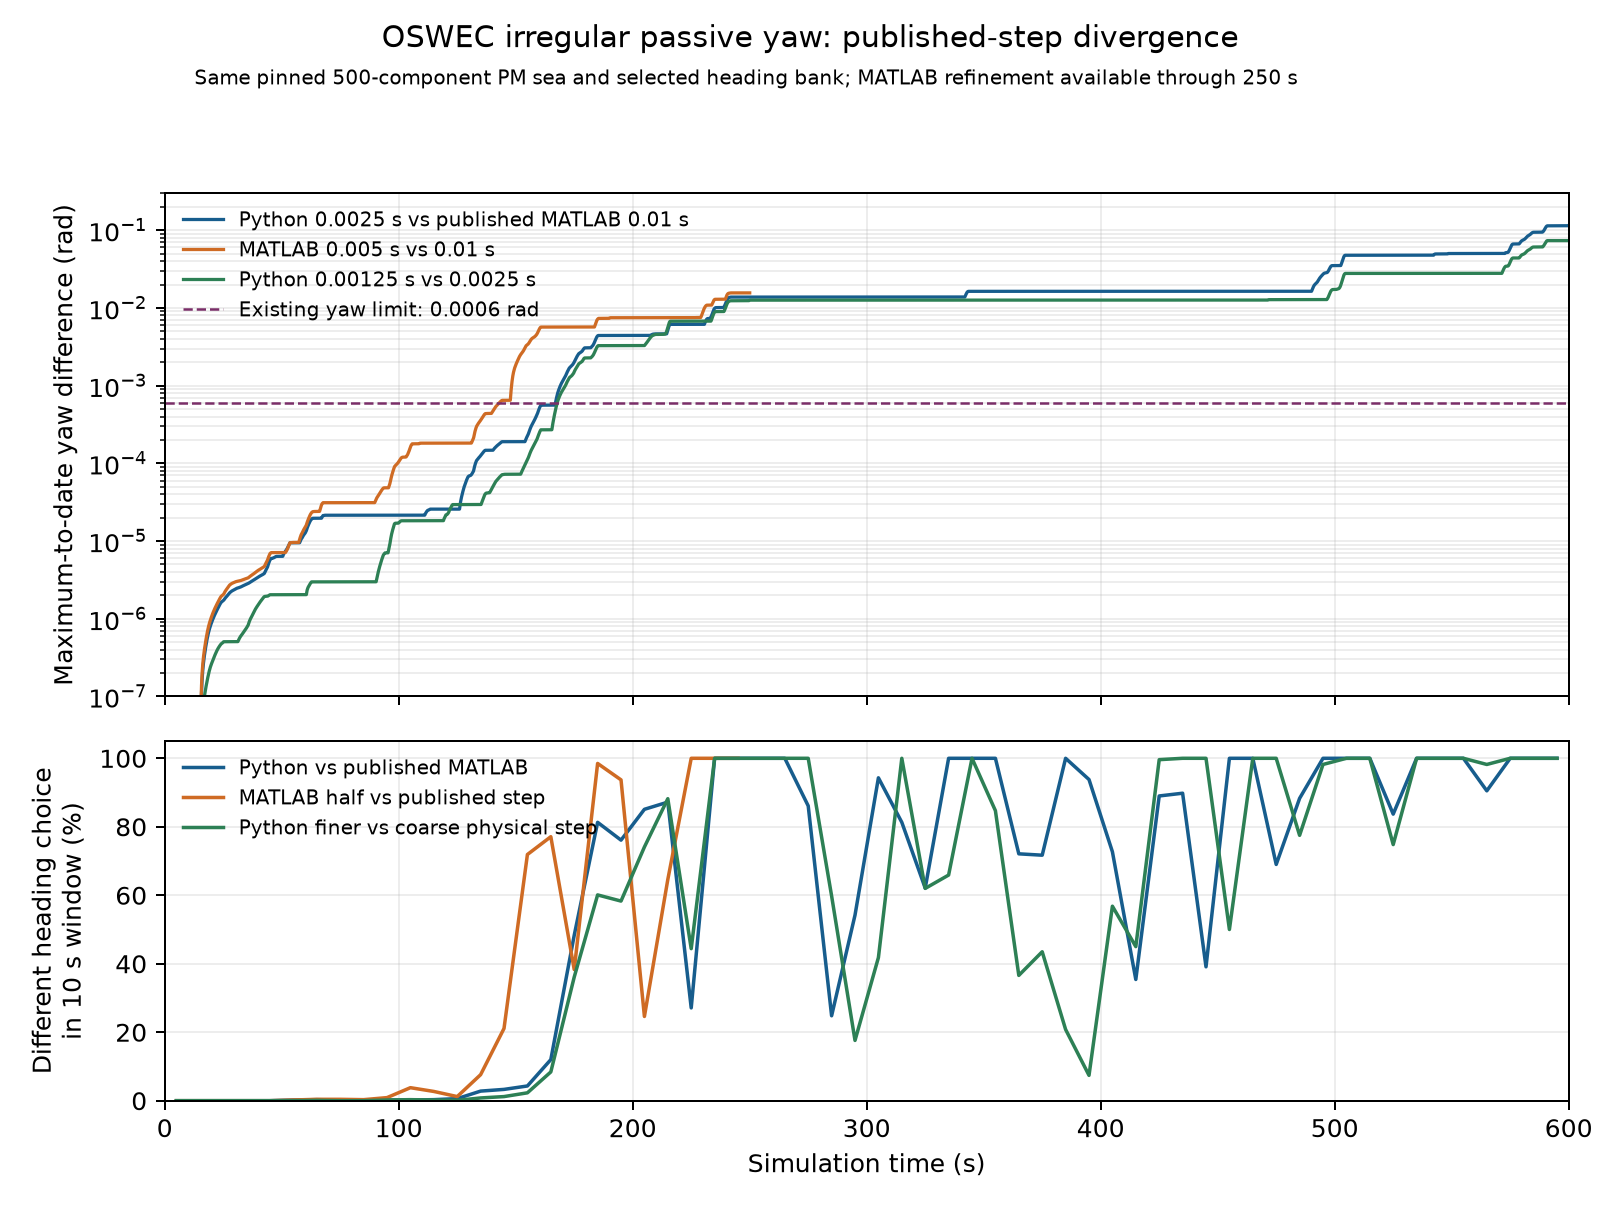
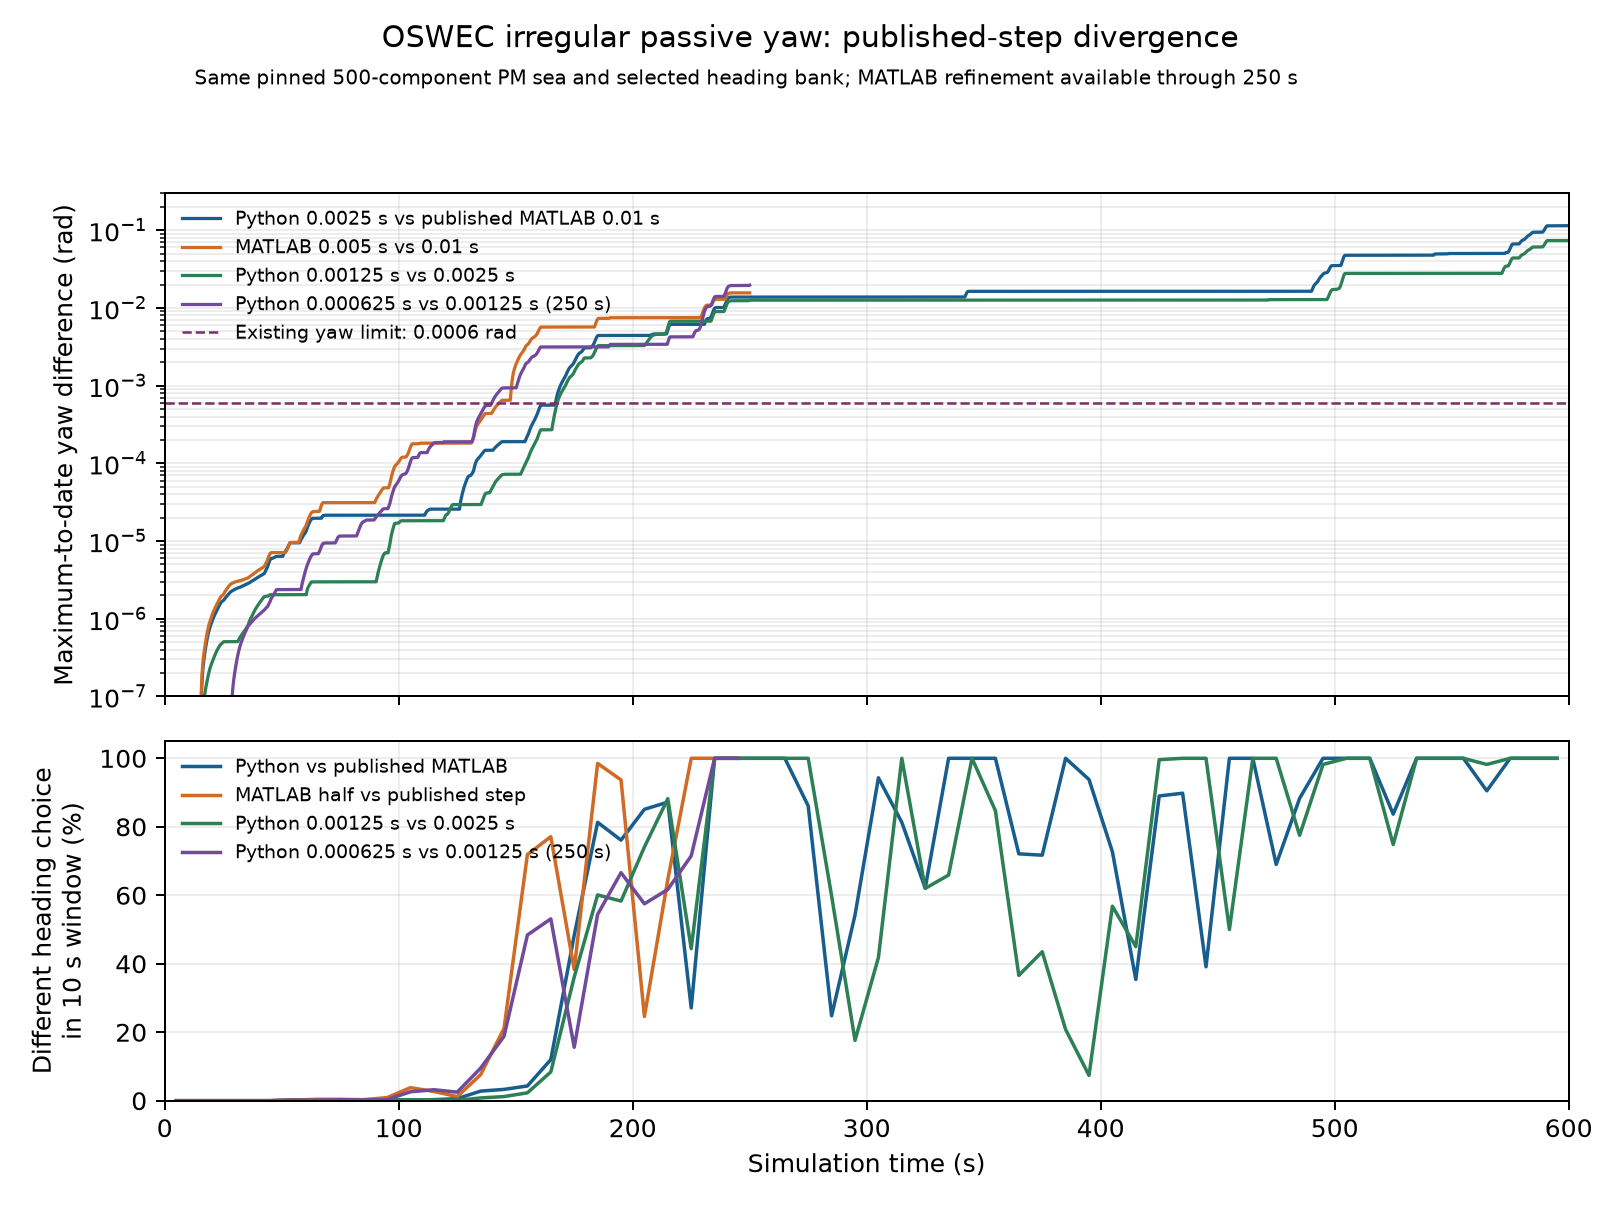
Document OSWEC physical step sensitivity at 250 s

diff --git a/PARITY.md b/PARITY.md
@@ -1167,6 +1167,17 @@ events over the full duration. These measurements do not establish a
 step-converged 600 s physical reference or change the case badge. The
 separate matched MATLAB 0.005-to-0.0025 s audit addresses the 160 s prefix.
 
+A further independent physical `WEC.run` refinement to `0.000625` s through
+250 s uses the same pinned sea and heading bank. Relative to the `0.00125` s
+Python path, it passes the unchanged yaw, yaw-speed, torque, and work limits
+through 120 s but fails yaw and work by 140 s; the first yaw-limit breach is
+at 139.7725 s. At 250 s the yaw gap is `0.01966` rad and the relative PTO-work
+gap is `0.965%`, compared with `0.01256` rad and `0.0552%` for the preceding
+`0.0025`-to-`0.00125` s refinement. Thus this third step does not support a
+monotonic convergence claim for the physical selected-heading path. Its
+window metrics, input hashes, and evaluator hashes are in the linked audit;
+the full published 600 s case remains qualified.
+
 ![OSWEC variable-yaw published, source-step, and Python-step yaw differences](docs/figures/oswec-variable-yaw-step-gap.png)
 
 The already gated 300 s OSWEC `Desalination` network and coupled-motion
